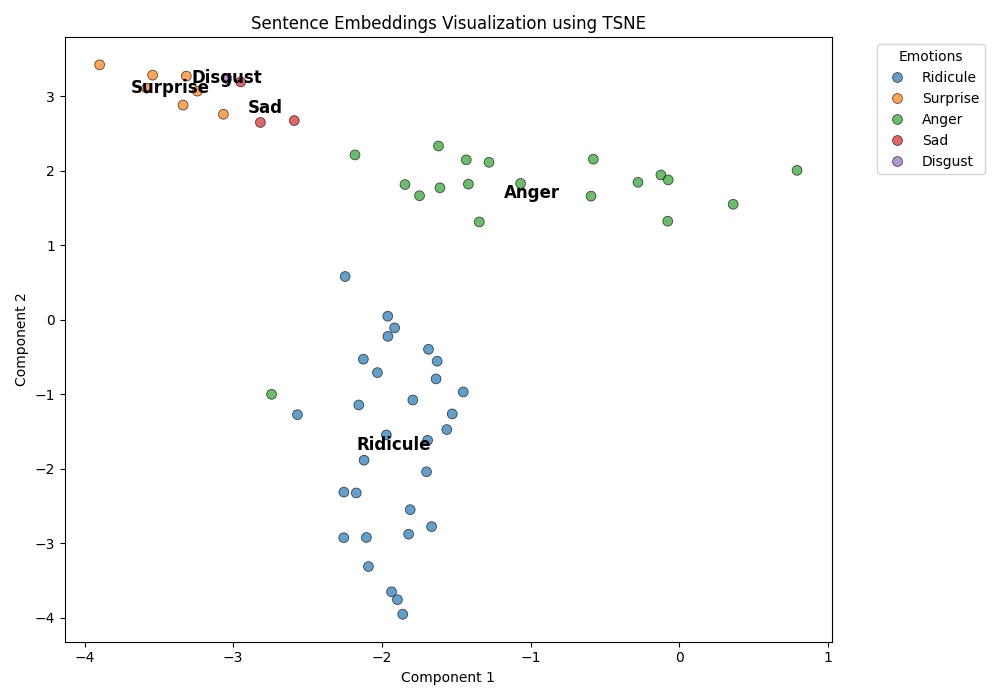
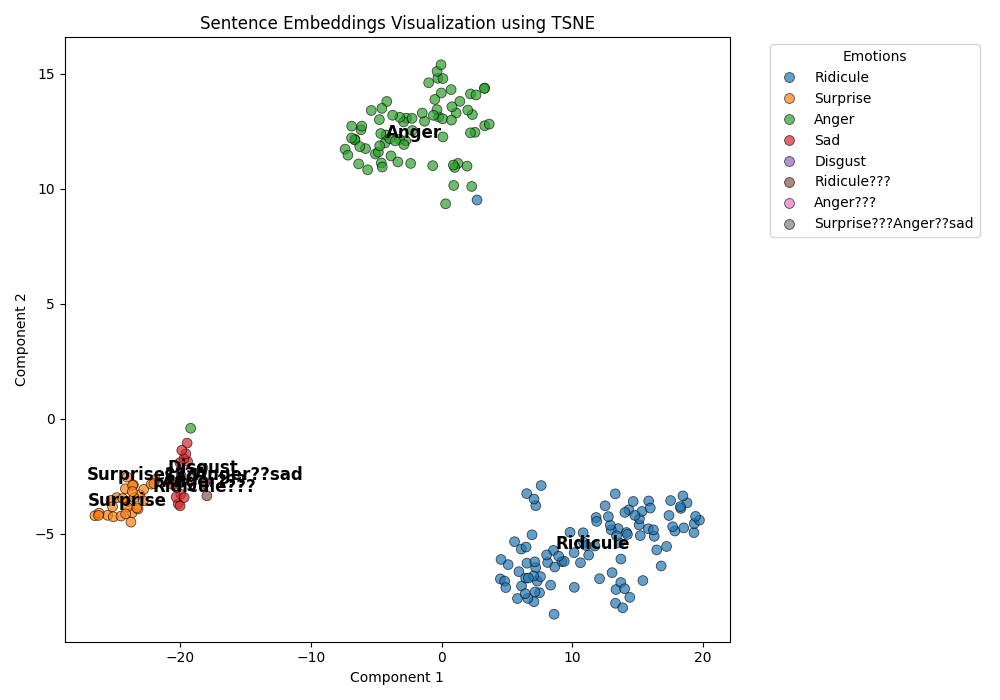
More Annotated Data

diff --git a/trainCode_fasttext_with_preProc.py b/trainCode_fasttext_with_preProc.py
@@ -1,122 +1,122 @@
-import json
-import re
-import nltk
-import fasttext
-import unicodedata
-import numpy as np
-import pandas as pd
-import matplotlib.pyplot as plt
-import seaborn as sns
-from tqdm import tqdm
-from collections import defaultdict, Counter
-from nltk.corpus import stopwords
-from nltk.stem import PorterStemmer
+# import json
+# import re
+# import nltk
+# import fasttext
+# import unicodedata
+# import numpy as np
+# import pandas as pd
+# import matplotlib.pyplot as plt
+# import seaborn as sns
+# from tqdm import tqdm
+# from collections import defaultdict, Counter
+# from nltk.corpus import stopwords
+# from nltk.stem import PorterStemmer
 
-# Ensure NLTK stopwords are available
-try:
-    nltk.data.find('corpora/stopwords')
-except LookupError:
-    nltk.download('stopwords', quiet=True)
+# # Ensure NLTK stopwords are available
+# try:
+#     nltk.data.find('corpora/stopwords')
+# except LookupError:
+#     nltk.download('stopwords', quiet=True)
 
-# Load English stopwords
-stop_words = set(stopwords.words('english'))
+# # Load English stopwords
+# stop_words = set(stopwords.words('english'))
 
-def load_data(json_file_path):
-    """Load dataset from a JSON file."""
-    try:
-        with open(json_file_path, 'r', encoding='utf-8') as f:
-            data = json.load(f)
-        print(f"Loaded dataset with {len(data)} entries")
-        return data
-    except Exception as e:
-        print(f"Error loading data: {e}")
-        return None
+# def load_data(json_file_path):
+#     """Load dataset from a JSON file."""
+#     try:
+#         with open(json_file_path, 'r', encoding='utf-8') as f:
+#             data = json.load(f)
+#         print(f"Loaded dataset with {len(data)} entries")
+#         return data
+#     except Exception as e:
+#         print(f"Error loading data: {e}")
+#         return None
 
-def create_dataframe(data, limit=None):
-    """Convert JSON data to Pandas DataFrame."""
-    processed_examples = []
-    for id, instance in list(data.items())[:limit]:
-        text = instance["target_utterance"]
-        context = " ".join(instance.get("context_utterances", []))
-        emotion = instance["emotion"]
-        full_text = context + " " + text
-        processed_examples.append({
-            "text": full_text,
-            "emotion": emotion,
-            "target_utterance": text,
-            "context_utterances": context,
-            "full_text": full_text
-        })
+# def create_dataframe(data, limit=None):
+#     """Convert JSON data to Pandas DataFrame."""
+#     processed_examples = []
+#     for id, instance in list(data.items())[:limit]:
+#         text = instance["target_utterance"]
+#         context = " ".join(instance.get("context_utterances", []))
+#         emotion = instance["emotion"]
+#         full_text = context + " " + text
+#         processed_examples.append({
+#             "text": full_text,
+#             "emotion": emotion,
+#             "target_utterance": text,
+#             "context_utterances": context,
+#             "full_text": full_text
+#         })
     
-    df = pd.DataFrame(processed_examples)
-    print(f"Created DataFrame with {len(df)} entries and {df.shape[1]} columns")
-    return df
+#     df = pd.DataFrame(processed_examples)
+#     print(f"Created DataFrame with {len(df)} entries and {df.shape[1]} columns")
+#     return df
 
-def explore_dataset(df):
-    """Perform basic dataset exploration."""
-    print(f"\nDataset contains {len(df)} entries")
-    print("\nColumn names:", df.columns.tolist())
-    if 'emotion' in df.columns:
-        emotion_counts = df['emotion'].value_counts()
-        print("\nEmotion distribution:")
-        print(emotion_counts)
-        plt.figure(figsize=(10, 6))
-        sns.barplot(x=emotion_counts.index, y=emotion_counts.values)
-        plt.title('Emotion Distribution')
-        plt.xlabel('Emotion')
-        plt.ylabel('Count')
-        plt.xticks(rotation=45)
-        plt.tight_layout()
-        plt.savefig('emotion_distribution.png')
-        print("Saved emotion distribution plot.")
+# def explore_dataset(df):
+#     """Perform basic dataset exploration."""
+#     print(f"\nDataset contains {len(df)} entries")
+#     print("\nColumn names:", df.columns.tolist())
+#     if 'emotion' in df.columns:
+#         emotion_counts = df['emotion'].value_counts()
+#         print("\nEmotion distribution:")
+#         print(emotion_counts)
+#         plt.figure(figsize=(10, 6))
+#         sns.barplot(x=emotion_counts.index, y=emotion_counts.values)
+#         plt.title('Emotion Distribution')
+#         plt.xlabel('Emotion')
+#         plt.ylabel('Count')
+#         plt.xticks(rotation=45)
+#         plt.tight_layout()
+#         plt.savefig('emotion_distribution.png')
+#         print("Saved emotion distribution plot.")
 
-def clean_text(text):
-    """Preprocess text by removing special characters and stopwords."""
-    if not isinstance(text, str):
-        return ""
-    text = unicodedata.normalize('NFC', text)
-    text = re.sub(r'[\W_]+', ' ', text).lower()
-    words = text.split()
-    words = [word for word in words if word not in stop_words]
-    return ' '.join(words)
+# def clean_text(text):
+#     """Preprocess text by removing special characters and stopwords."""
+#     if not isinstance(text, str):
+#         return ""
+#     text = unicodedata.normalize('NFC', text)
+#     text = re.sub(r'[\W_]+', ' ', text).lower()
+#     words = text.split()
+#     words = [word for word in words if word not in stop_words]
+#     return ' '.join(words)
 
-def create_fasttext_file(df, filename, text_column="text_cleaned", label_column="emotion"):
-    """Generate FastText-compatible file."""
-    with open(filename, 'w', encoding='utf-8') as f:
-        for _, row in df.iterrows():
-            f.write(f"__label__{row[label_column]} {row[text_column]}\n")
-    print(f"Saved FastText input file: {filename}")
+# def create_fasttext_file(df, filename, text_column="text_cleaned", label_column="emotion"):
+#     """Generate FastText-compatible file."""
+#     with open(filename, 'w', encoding='utf-8') as f:
+#         for _, row in df.iterrows():
+#             f.write(f"__label__{row[label_column]} {row[text_column]}\n")
+#     print(f"Saved FastText input file: {filename}")
 
-def train_fasttext_model(input_file, output_model_name="emotion_model.bin"):
-    """Train FastText model."""
-    model = fasttext.train_supervised(
-        input=input_file, lr=0.5, epoch=25, wordNgrams=2, dim=100, loss='softmax'
-    )
-    model.save_model(output_model_name)
-    print(f"Model saved as: {output_model_name}")
-    return model
+# def train_fasttext_model(input_file, output_model_name="emotion_model.bin"):
+#     """Train FastText model."""
+#     model = fasttext.train_supervised(
+#         input=input_file, lr=0.5, epoch=25, wordNgrams=2, dim=100, loss='softmax'
+#     )
+#     model.save_model(output_model_name)
+#     print(f"Model saved as: {output_model_name}")
+#     return model
 
-def extract_features(model, df, text_column="text_cleaned"):
-    """Extract embeddings using FastText."""
-    X = np.array([model.get_sentence_vector(text) for text in df[text_column]])
-    y = df['emotion'].values
-    print(f"Extracted features with shape: {X.shape}")
-    return X, y
+# def extract_features(model, df, text_column="text_cleaned"):
+#     """Extract embeddings using FastText."""
+#     X = np.array([model.get_sentence_vector(text) for text in df[text_column]])
+#     y = df['emotion'].values
+#     print(f"Extracted features with shape: {X.shape}")
+#     return X, y
 
-def main(json_file_path, limit=None):
-    """Pipeline execution."""
-    data = load_data(json_file_path)
-    if not data:
-        return
-    df = create_dataframe(data, limit)
-    explore_dataset(df)
-    df['text_cleaned'] = df['text'].apply(clean_text)
-    create_fasttext_file(df, "fasttext_input.txt")
-    model = train_fasttext_model("fasttext_input.txt")
-    X, y = extract_features(model, df)
-    df.to_csv("processed_data.csv", index=False)
-    print("Pipeline completed successfully.")
-    return df, model, X, y
+# def main(json_file_path, limit=None):
+#     """Pipeline execution."""
+#     data = load_data(json_file_path)
+#     if not data:
+#         return
+#     df = create_dataframe(data, limit)
+#     explore_dataset(df)
+#     df['text_cleaned'] = df['text'].apply(clean_text)
+#     create_fasttext_file(df, "fasttext_input.txt")
+#     model = train_fasttext_model("fasttext_input.txt")
+#     X, y = extract_features(model, df)
+#     df.to_csv("processed_data.csv", index=False)
+#     print("Pipeline completed successfully.")
+#     return df, model, X, y
 
-if __name__ == "__main__":
-    main("train_data_final_plain.json", limit=60)
+# if __name__ == "__main__":
+#     main("train_data_final_plain.json", limit=60)

diff --git a/train_fastText_gen.py b/train_fastText_gen.py
@@ -355,7 +355,7 @@ if __name__ == "__main__":
     # Set parameters
     json_file_path = "train_data_final_plain.json"
     hindi_stopwords_file = "stop_hinglish.txt"  # Set to None if not available
-    limit = 60  # Set to None to process all data
+    limit = 225  # Set to None to process all data
     use_advanced_cleaning = True  # Set to False to use simple cleaning
     
     # Run the pipeline
